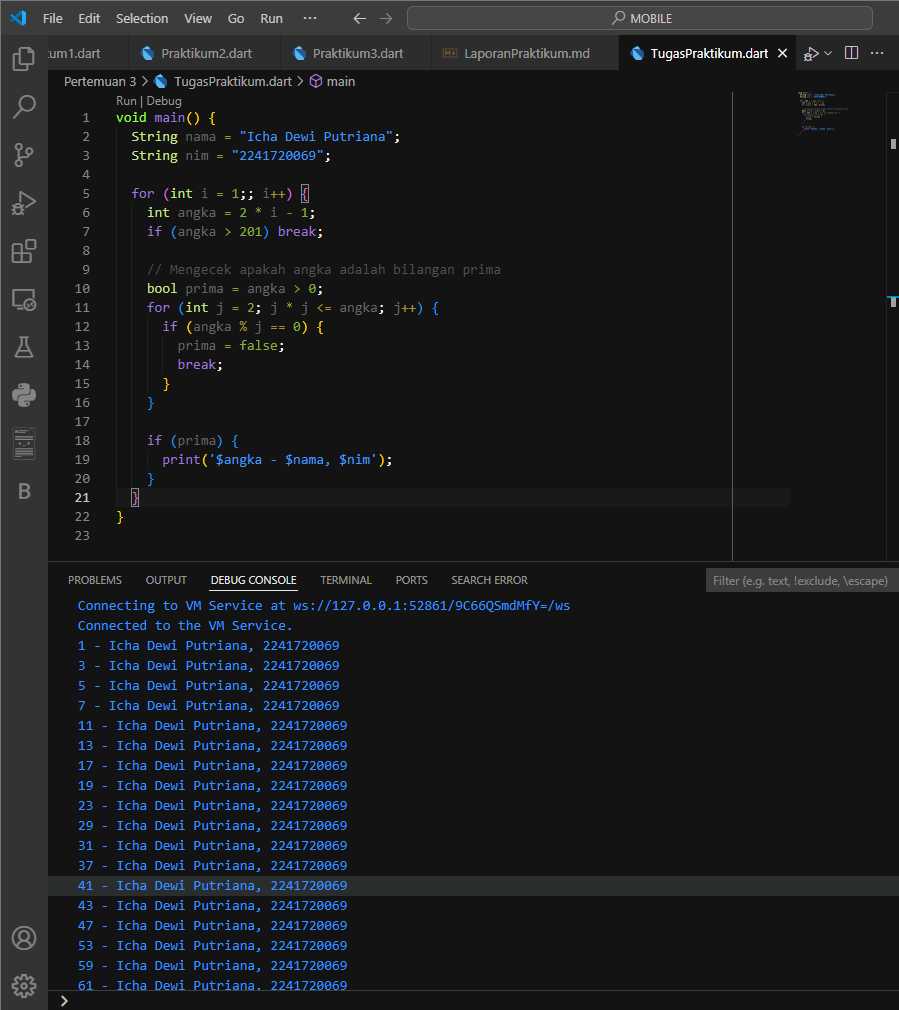
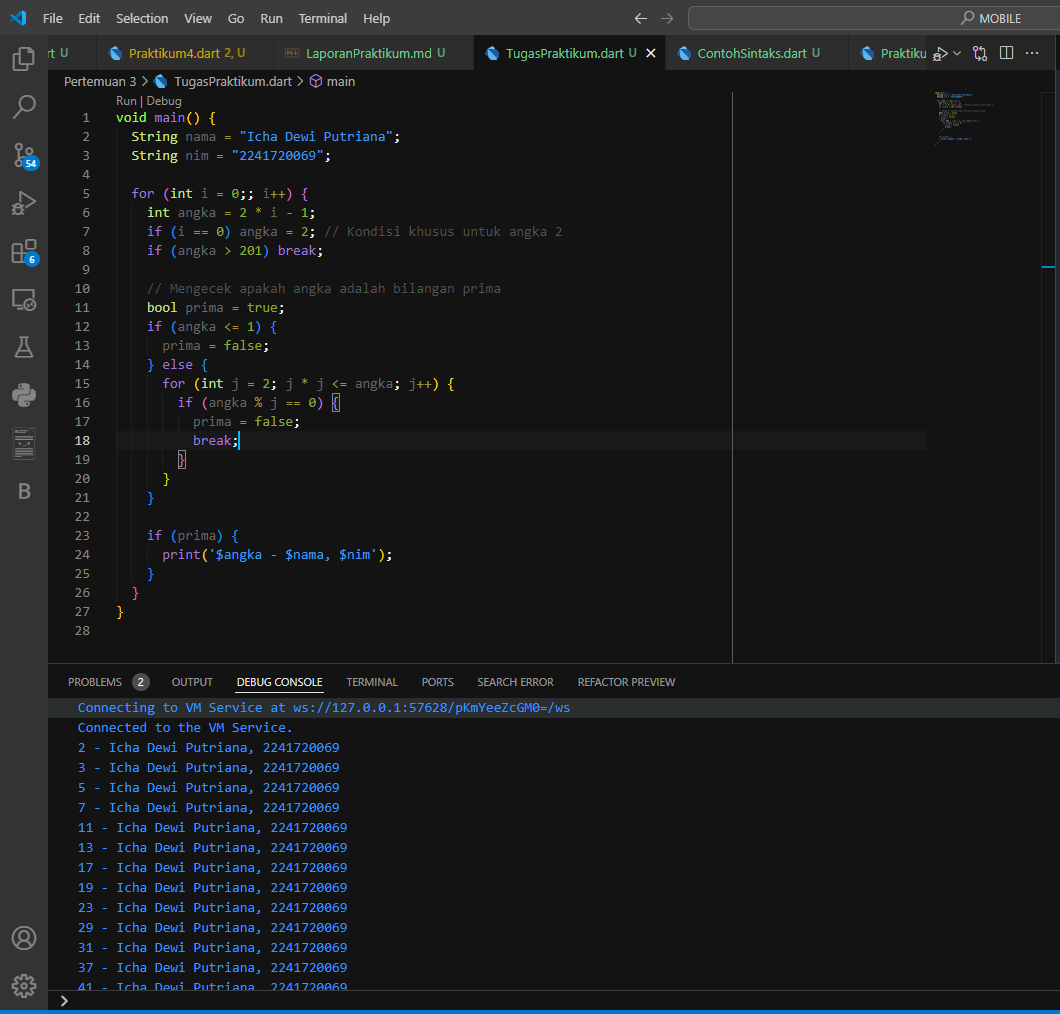
Fixed Tugas Praktikum 3

diff --git a/Pertemuan 3/TugasPraktikum.dart b/Pertemuan 3/TugasPraktikum.dart
@@ -2,16 +2,21 @@ void main() {
   String nama = "Icha Dewi Putriana";
   String nim = "2241720069";
 
-  for (int i = 1;; i++) {
+  for (int i = 0;; i++) {
     int angka = 2 * i - 1;
+    if (i == 0) angka = 2; // Kondisi khusus untuk angka 2
     if (angka > 201) break;
 
     // Mengecek apakah angka adalah bilangan prima
-    bool prima = angka > 0;
-    for (int j = 2; j * j <= angka; j++) {
-      if (angka % j == 0) {
-        prima = false;
-        break;
+    bool prima = true;
+    if (angka <= 1) {
+      prima = false;
+    } else {
+      for (int j = 2; j * j <= angka; j++) {
+        if (angka % j == 0) {
+          prima = false;
+          break;
+        }
       }
     }
 
